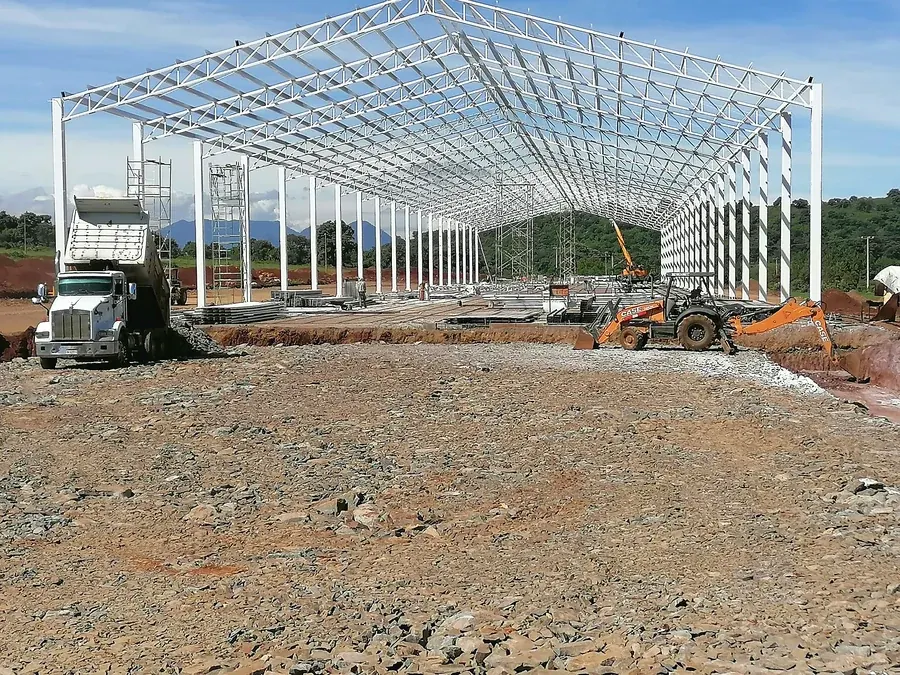
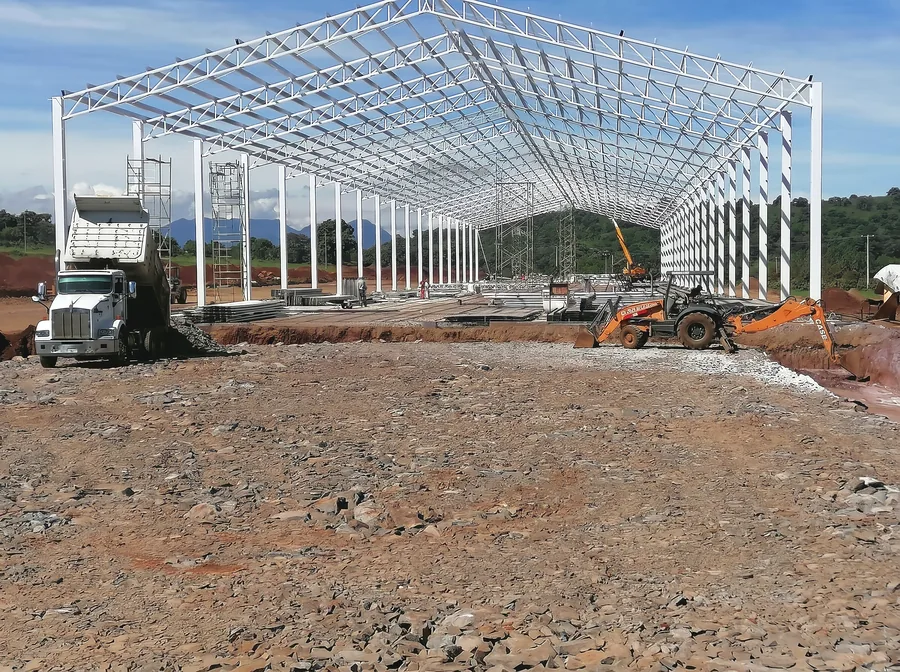
Fotos de naves y casa reescaladas a 2400 px con IA (Flow), mas nitidas y limpias en pantalla completa

diff --git a/index.html b/index.html
@@ -186,7 +186,7 @@ dialog.vz .x{white-space:nowrap;flex:none;min-height:38px;padding:0 16px;border-
   <a class="sig" href="#o2">Siguiente obra ↓</a>
 </article>
 <article class="ob" id="o2">
-  <img class="f" data-px style="object-position:26% 50%" loading="lazy" decoding="async" src="photos/e/casa-1600.webp" srcset="photos/e/casa-900.webp 900w, photos/e/casa-1600.webp 1600w, photos/e/casa-2000.webp 2000w" sizes="(max-width:900px) 490vw, 100vw" width="2000" height="1125" alt="Fachada terminada de la casa habitación con un coche blanco al frente">
+  <img class="f" data-px style="object-position:26% 50%" loading="lazy" decoding="async" src="photos/e/casa-1600.webp" srcset="photos/e/casa-900.webp 900w, photos/e/casa-1600.webp 1600w, photos/e/casa-2400.webp 2400w" sizes="(max-width:900px) 490vw, 100vw" width="2400" height="1350" alt="Fachada terminada de la casa habitación con un coche blanco al frente">
   <div class="tx">
     <span class="n">02 · 2021 — 2022</span>
     <h2 class="rv">Casa <em>habitación</em></h2>

diff --git a/src/portafolio.html b/src/portafolio.html
@@ -186,7 +186,7 @@ dialog.vz .x{white-space:nowrap;flex:none;min-height:38px;padding:0 16px;border-
   <a class="sig" href="#o2">Siguiente obra ↓</a>
 </article>
 <article class="ob" id="o2">
-  <img class="f" data-px style="object-position:26% 50%" loading="lazy" decoding="async" src="photos/e/casa-1600.webp" srcset="photos/e/casa-900.webp 900w, photos/e/casa-1600.webp 1600w, photos/e/casa-2000.webp 2000w" sizes="(max-width:900px) 490vw, 100vw" width="2000" height="1125" alt="Fachada terminada de la casa habitación con un coche blanco al frente">
+  <img class="f" data-px style="object-position:26% 50%" loading="lazy" decoding="async" src="photos/e/casa-1600.webp" srcset="photos/e/casa-900.webp 900w, photos/e/casa-1600.webp 1600w, photos/e/casa-2400.webp 2400w" sizes="(max-width:900px) 490vw, 100vw" width="2400" height="1350" alt="Fachada terminada de la casa habitación con un coche blanco al frente">
   <div class="tx">
     <span class="n">02 · 2021 — 2022</span>
     <h2 class="rv">Casa <em>habitación</em></h2>
